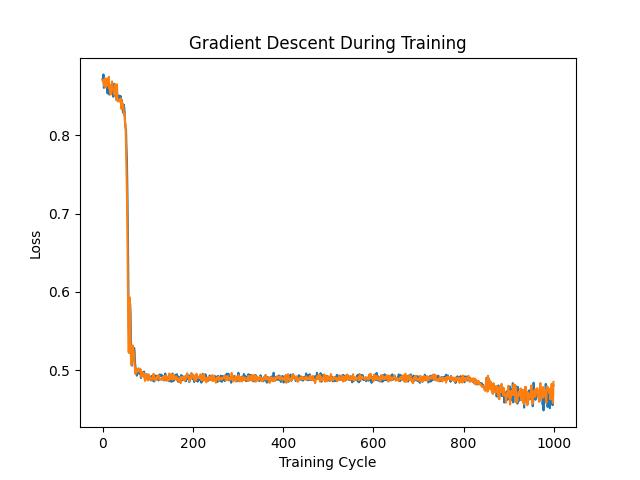
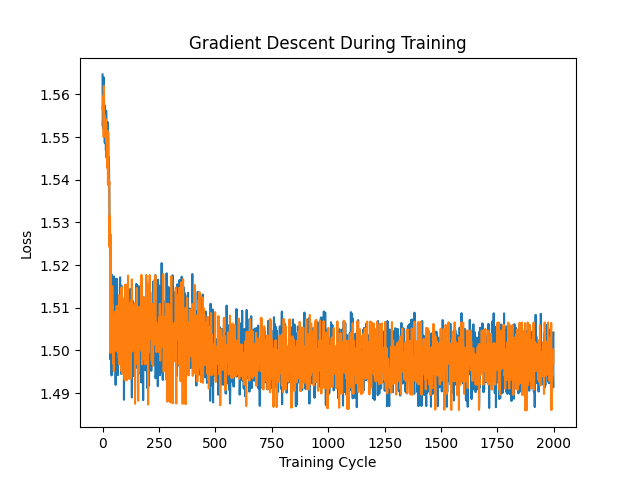
Integrated Dask with training data synthesiser
Previously was running out of RAM when using `training_data_synthesiser.py`. Fixed by using Dask to save the training
data in an HDF5 file. Also added some training results.

diff --git a/synthesisers/training_data_synthesiser_gauss.py b/synthesisers/training_data_synthesiser_gauss.py
@@ -15,6 +15,8 @@ from pathlib import Path
 
 import toml
 
+import dask.array as da
+import dask_ml.model_selection
 import numpy as np
 import matplotlib.pyplot as plt
 from scipy.ndimage import convolve
@@ -357,18 +359,35 @@ if __name__ == "__main__":
 
     image_patch_stacks = [result[0] for result in results]
     gt_patch_stacks = [result[1] for result in results]
+
+    print("Saved patches to lists")
     
     image_patches = np.array(image_patch_stacks)
     image_patches = image_patches.reshape(-1, *image_patches.shape[2:])
-    image_patches = np.moveaxis(image_patches, 1, -1)
+    print(f"Images saved to numpy array of shape {image_patches.shape}")
+    image_patches = da.from_array(image_patches, chunks=(500, -1, -1, -1))  # Chunks ~1GB for 512x512 double
+    image_patches = da.moveaxis(image_patches, 1, -1)
+    print(f"{image_patches.chunks=}")
+    print(f"{image_patches.shape=}")
+    print(f"{image_patches.dtype=}")
 
     gt_patches = np.array(gt_patch_stacks)
     gt_patches = gt_patches.reshape(-1, *gt_patches.shape[2:])
+    print(f"Ground-truth masks saved to numpy array of shape {gt_patches.shape}")
+    gt_patches = da.from_array(gt_patches, chunks=(500, -1, -1, -1))  # Chunks 
+    print(f"{gt_patches.chunks=}")
+    print(f"{gt_patches.shape=}")
+    print(f"{gt_patches.dtype=}")
 
-    image_patches_train, images_patches_test, gt_patches_train, gt_patches_test = train_test_split(image_patches, 
-            gt_patches, test_size=0.25, random_state=42)
-    np.savez('au_on_graphene_gaussian_training_data_large.npz', X_train=image_patches_train, 
-            X_test=images_patches_test, y_train=gt_patches_train, y_test=gt_patches_test)
+    # image_patches_train, images_patches_test, gt_patches_train, gt_patches_test = train_test_split(image_patches, 
+    #         gt_patches, test_size=0.25, random_state=42)
+    # np.savez('au_on_graphene_gaussian_training_data_large.npz', X_train=image_patches_train, 
+    #         X_test=images_patches_test, y_train=gt_patches_train, y_test=gt_patches_test)
+
+    image_patches_train, images_patches_test, gt_patches_train, gt_patches_test = \
+        dask_ml.model_selection.train_test_split(image_patches, gt_patches, test_size=0.25, random_state=42)
+    da.to_hdf5('au_on_graphene_gausian_training_data_large.hdf5', {'/X_train': image_patches_train, 
+    '/X_test': images_patches_test, '/y_train': gt_patches_train, '/y_test': gt_patches_test})
 
     print("Program complete.")
 

diff --git a/trainers/train_script.py b/trainers/train_script.py
@@ -27,11 +27,11 @@ initial_kernels = 32
 layers = 4
 model = UNet(1, 2, initial_kernels, layers, train_images.shape[-2:])
 
-criterion = nn.MultiLabelSoftMarginLoss()
+criterion = DiceBCELoss()
 optimiser = torch.optim.Adam(model.parameters(), lr=1e-4)
 
 trainer = Trainer(model, train_images, train_labels, test_images, test_labels, criterion, optimiser, device, 
-batch_size=50, training_cycles=200)
+batch_size=50, training_cycles=2000)
 
 trainer.run()
 

diff --git a/trainers/deeper_unet.py b/trainers/deeper_unet.py
@@ -90,11 +90,11 @@ class HeadBlock(nn.Module):
     def __init__(self, in_ch: int, out_ch: int):
         super(HeadBlock, self).__init__()
         self.conv = nn.Conv2d(in_ch, out_ch, (1, 1))
-        # self.activation = nn.Softmax()  #nn.Sigmoid()
+        self.activation = nn.Softmax()  #nn.Sigmoid()
 
     def forward(self, x):
         x = self.conv(x)
-        # x = self.activation(x)
+        x = self.activation(x)
         return x
 
 
